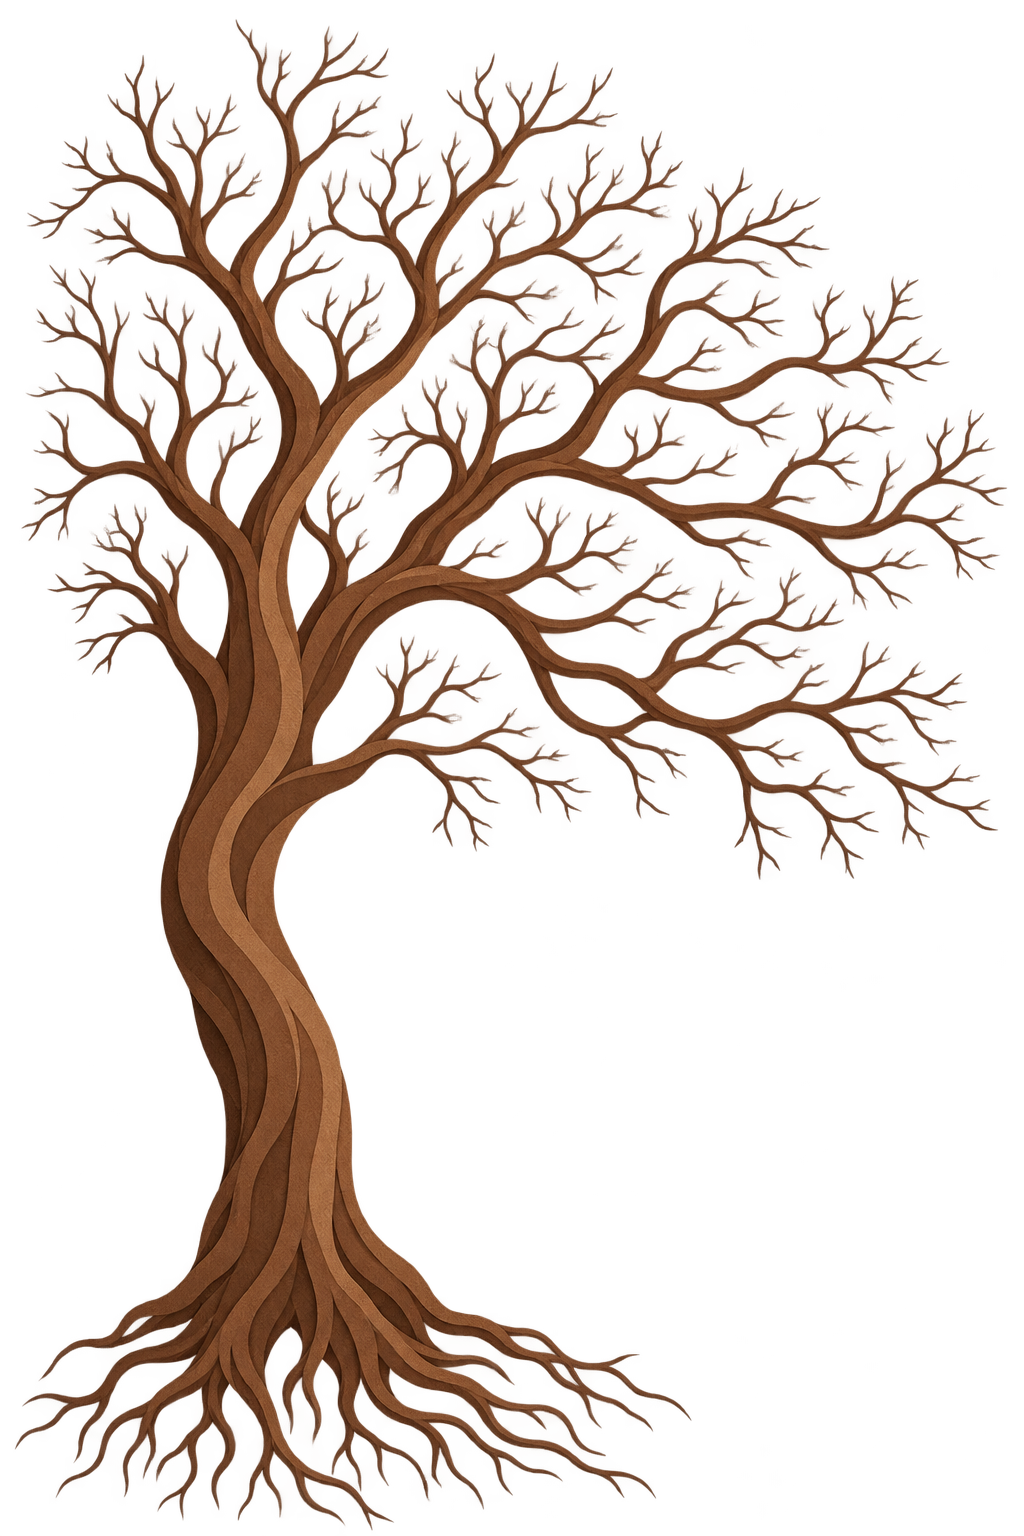
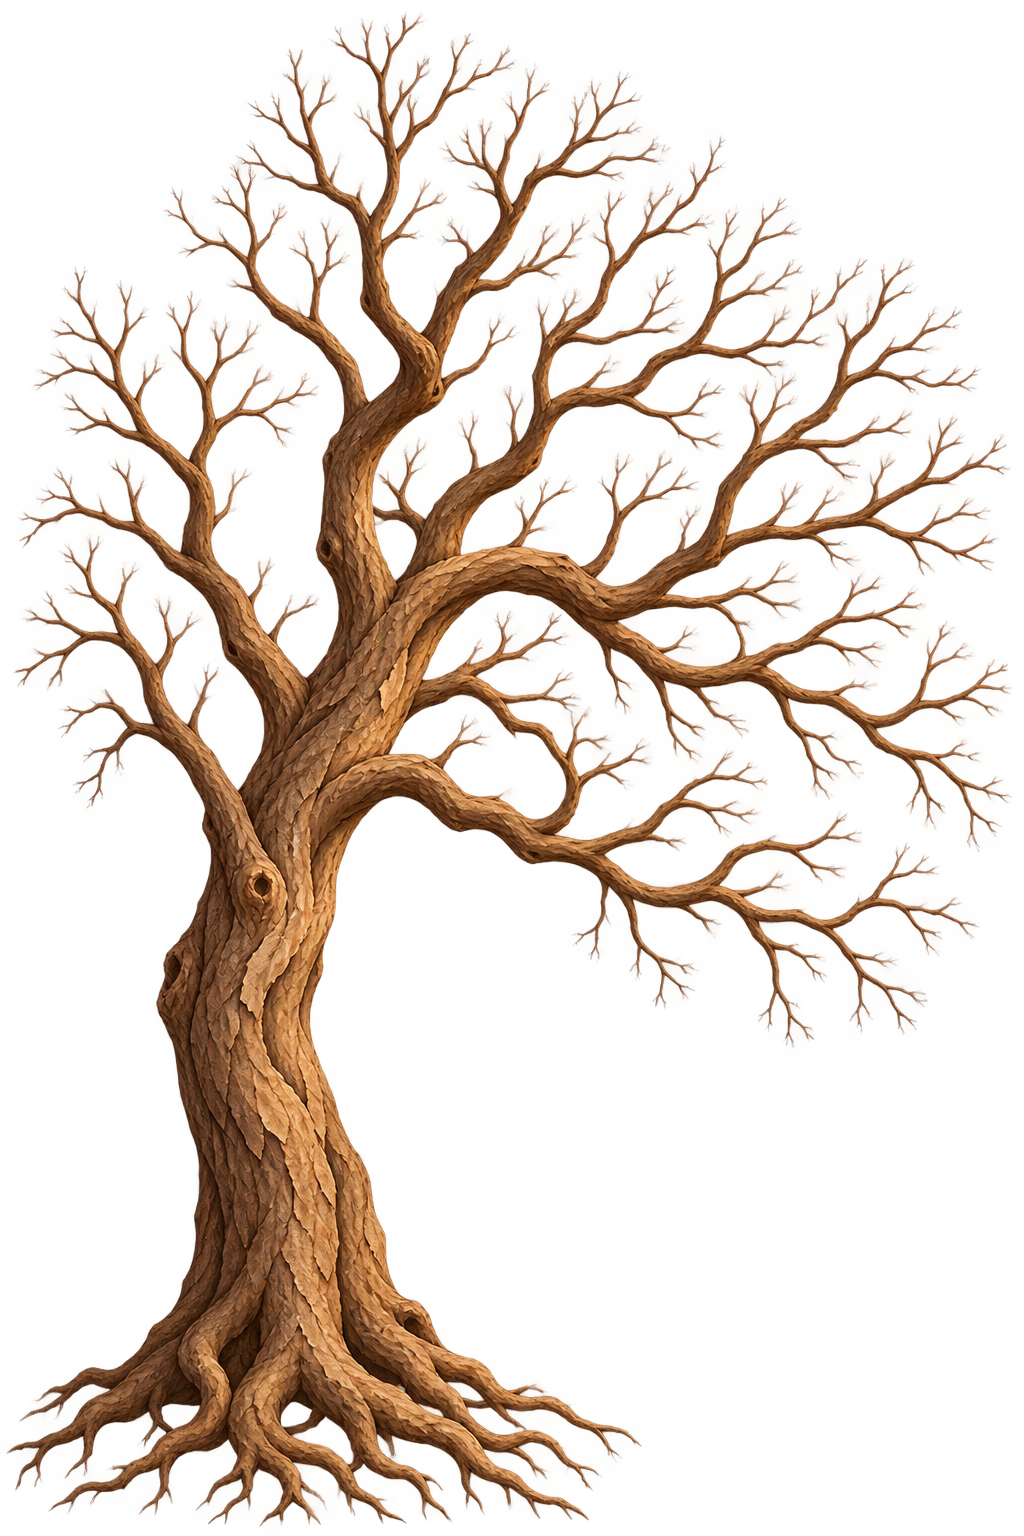
Restore textured artwork and prototype a single Season Tree
Use the original richly textured tree illustration as one focal tree, author 48 twig anchors without changing saved slot identities, and document the tree's seasonal role. Refresh gameplay and ending screenshots.

diff --git a/docs/GAME_DESIGN.md b/docs/GAME_DESIGN.md
@@ -6,7 +6,7 @@ An initial [technical art prototype](PROTOTYPE.md) implements part of this desig
 
 ## Core concept and requirements
 
-You are a stubborn caretaker trying to prevent winter from arriving. Armed with a leaf blower, you move left and right beneath shedding trees and blow their leaves back into the canopy. Leaves swirl through the air, collect around your feet when missed, and slow your movement as their piles grow.
+You are a stubborn caretaker trying to prevent winter from arriving. Armed with a leaf blower, you move left and right beneath a single magical tree and blow its leaves back into the canopy. Leaves swirl through the air, collect around your feet when missed, and slow your movement as their piles grow.
 
 The game must provide:
 
@@ -22,6 +22,10 @@ The game must provide:
 
 The paper-cut direction and between-week upgrades are selected features. Exact rendering implementation, upgrade balance, scoring, and temporary pickups remain design choices. The defaults below make a bounded, testable first version.
 
+## The season tree — working mythos
+
+One ancient tree, provisionally called the **Season Tree**, governs the seasons in the valley. Its leaves hold the last warmth of autumn; when the crown becomes bare, winter takes over. The caretaker uses a very ordinary electric blower to keep an extraordinary tree alive, making the modern rural setting and magical premise work together. The North Wind tries to strip its leaves in the finale. Victory restores sunlight and flowers around that same tree. The exact name and story presentation remain provisional; keep the premise visual rather than adding lengthy exposition.
+
 ## Player experience
 
 An approachable opening gives way to increasingly frantic, readable leaf juggling. The fun comes from positioning beneath a falling cluster, catching it in a gust, and watching it click back into an empty branch position. The player should understand a miss immediately, recover from small mistakes, and see why a run ended.
@@ -32,9 +36,9 @@ Keep the camera fixed. No scrolling world, platforming, jumping, combat, or off-
 
 Selected creative direction: **Paper & Lanterns**, following the six-style comparison and four-state seasonal mockup review. Build illustrated 2D gameplay from layered cut-paper scenery, fibrous textures, folded edges, dimensional shadows, and warm backlighting. Use rounded silhouettes, restrained animation, and slightly exaggerated proportions. Retro character comes from shape language and timing; strict pixel art is not a requirement. The concept images establish mood, not production-ready sprites or a final HUD.
 
-Place two or three trees across the upper playfield, open air in the middle, and the character and accumulating leaves along the bottom. Keep trunks, branches, and foreground props from hiding catchable leaves. Reserve the bottom safe area for controls and the top for a compact HUD.
+Place one large, naturally asymmetric textured tree as the central focal point, open air around its crown, and the character and accumulating leaves along the bottom. The character runs in front of the trunk and roots; they are scenery, not movement obstacles. Keep trunks, branches, and foreground props from hiding catchable leaves. Reserve the bottom safe area for controls and the top for a compact HUD.
 
-Use a relatable modern rural setting: ordinary houses, wooden fences and optional solar panels, with distant forest and small mountains. No castle, medieval spires or stone bridge. Render the gameplay trees as complete illustrated bare-tree sprites separately from the scenery, and place all their foliage as independent paper leaves. Attached, falling and piled leaves share the same textured cut-paper asset. The trees' visible emptiness reflects actual missing leaves, especially late in a struggling run; never paint a permanently full canopy into the backdrop.
+Use a relatable modern rural setting: ordinary houses, wooden fences and optional solar panels, with distant forest and small mountains. No castle, medieval spires or stone bridge. Render the magical gameplay tree as one complete textured bare-tree sprite separately from the scenery, and place all their foliage as independent paper leaves. Attached, falling and piled leaves share the same textured cut-paper asset. The tree's visible emptiness reflects actual missing leaves, especially late in a struggling run; never paint a permanently full canopy into the backdrop.
 
 Create depth with overlapping scenery planes, contact shadows, soft light shafts, a gentle canopy glow, and sparse fog. Fog stays behind important action or uses very low opacity. Colour and contrast must distinguish leaves from the backdrop, including during orange/red late weeks. Leaf shape, motion, and markings supplement colour cues.
 

diff --git a/docs/PROTOTYPE.md b/docs/PROTOTYPE.md
@@ -3,7 +3,7 @@
 ## What is implemented
 
 - Godot **4.6.3 stable**, GDScript, Compatibility rendering, no third-party engine plugins.
-- Modern rural paper-textured scenery with ordinary houses and a solar roof, plus independently drawn bare trees, textured paper-leaf sprites, a transparent electric-blower character, directional wind streaks, local leaf piles, gentle light/fog overlays, and soft shadows.
+- Modern rural paper-textured scenery with ordinary houses and a solar roof, plus a single central magical tree using the original textured illustration, textured paper-leaf sprites, a transparent electric-blower character, directional wind streaks, local leaf piles, gentle light/fog overlays, and soft shadows.
 - Fixed-camera, fixed **360 × 640** logical playfield, uniformly fitted inside browser safe-area padding. Screen shape changes decorative margins, not gameplay geometry.
 - Keyboard and independent multi-touch movement/blowing, input release on touch cancellation, pause on application focus loss, and explicit pause/resume.
 - Upward leaf force with mild flutter, once-only rescue/miss outcomes, pile slowdown, battery depletion/release-to-recharge, score/combo, 12 main weeks and a final North Wind encounter, and cumulative winter pressure.
@@ -77,7 +77,7 @@ Headless Chromium uses software WebGL in this environment. It can establish func
 
 ## Deliberate prototype limits
 
-- Distant scenery remains a composited background plate with baked lighting. Gameplay trees, their foliage and atmospheric overlays are separate runtime layers; the whole illustrated tree sprite is paired with twig-coordinate/orientation metadata in `scripts/canopy.gd`. This is not a final rigged 2.5D or fully dynamic lighting pipeline.
+- Distant scenery remains a composited background plate with baked lighting. The Season Tree, its foliage and atmospheric overlays are separate runtime layers; the whole illustrated tree sprite is paired with twig-coordinate/orientation metadata in `scripts/canopy.gd`. This is not a final rigged 2.5D or fully dynamic lighting pipeline.
 - The character uses 12 wardrobe atlas frames plus separate warm victory and bundled sad-defeat poses, with smooth mipmapped filtering. Full walking, looking-up, celebration and blower-idle animation rigs remain production work.
 - Branch capture has a forgiving 15-logical-pixel radius and sweeps each motion segment to avoid missing slots at higher speeds. The radius, branch layout, foliage density and marker visibility need phone-scale playtesting. Arriving at an arbitrary sky height never counts as a rescue.
 - Weather/endings demonstrate the visual states rather than finished cinematic direction. Warning flakes do not collide with leaves or change movement.

diff --git a/docs/DEVELOPMENT_PLAN.md b/docs/DEVELOPMENT_PLAN.md
@@ -2,7 +2,7 @@
 
 Status: an initial [technical art prototype](PROTOTYPE.md) now implements a subset of these stages in Godot 4.6.3, with a browser export, automated simulation/input checks, original prototype assets, and a small upgrade workshop. This is not a completed cross-platform gate or production vertical slice. Physical-device performance, native exports, full animation/layered-art production, difficulties and persistence remain outstanding. Complete each exit gate before expanding scope; the list below remains the broader delivery plan.
 
-The revised prototype uses modern rural homes instead of the original medieval backdrop. Bare gameplay trees and all foliage now render independently: occupied positions shed real leaves, misses leave persistent gaps, and returning leaves reattach to vacant positions. Whole-tree illustrated sprites and artist-authored twig metadata, textured leaf sprites and directional wind streaks replace the static painted canopy, blanket sky capture and spiral blower ribbons. The current finite canopy has 48 leaves; the earlier 150-leaf budget below remains a future scale target, not a claim about the current stress scenario.
+The revised prototype uses modern rural homes instead of the original medieval backdrop. Bare gameplay trees and all foliage now render independently: occupied positions shed real leaves, misses leave persistent gaps, and returning leaves reattach to vacant positions. A single original textured tree illustration and artist-authored twig metadata, textured leaf sprites and directional wind streaks replace the static painted canopy, blanket sky capture and spiral blower ribbons. The current finite canopy has 48 leaves; the earlier 150-leaf budget below remains a future scale target, not a claim about the current stress scenario.
 
 The campaign prototype now includes 12 weekly outfit frames, two ending poses, falling temperature, all-screen pausing, and three named local boundary-save slots. Final boss mechanics are a first North Wind gust/snow study. Full animation rigs, human difficulty tuning and native device validation remain open.
 

diff --git a/docs/CAMPAIGN.md b/docs/CAMPAIGN.md
@@ -36,9 +36,11 @@ Switching apps/tabs, hiding the document or losing window focus automatically pa
 
 ## Art correction
 
-Each tree is one complete illustrated bare-tree sprite, not a silhouette reconstructed from little branch polygons. The right tree mirrors the same asset. Twig attachment metadata is authored against actual opaque points in that image; leaf stems meet the wood and blades face outward, rather than receiving arbitrary random rotations.
+The composition uses **one central magical tree**, preserving the original richly textured full-tree illustration requested by the user. It is not the later simplified line-style tree, a mirrored pair, or a silhouette reconstructed from little branch polygons. Twig attachment metadata is authored against actual opaque points in that image; leaf stems meet the wood and blades face outward, rather than receiving arbitrary random rotations.
 
-The same paper leaf texture appears attached, in flight and in piles. Smooth linear filtering with mipmaps reduces aliasing as large cutouts scale down. There is no integer pixel snapping or deliberate pixel-art filter. Phone-size screenshots and moving builds, not isolated source images, determine whether the result is acceptable.
+Its leaves hold autumn in the valley: the Season Tree is a provisional name for this visual mythos. The caretaker moves in front of the roots without collision, and the North Wind threatens the same focal tree.
+
+All 48 slot identities are retained so existing saved weeks, builds and missing-leaf counts survive the composition change; positions map onto the new tree. The same paper leaf texture appears attached, in flight and in piles. Smooth linear filtering with mipmaps reduces aliasing as large cutouts scale down. There is no integer pixel snapping or deliberate pixel-art filter. Phone-size screenshots and moving builds, not isolated source images, determine whether the result is acceptable.
 
 ## Upgrade pacing
 

diff --git a/assets/ASSET_MANIFEST.md b/assets/ASSET_MANIFEST.md
@@ -5,7 +5,7 @@
 | `art/autumn_stage.png` | Generated with OpenAI image generation for this project; revised from the earlier Paper & Lanterns backdrop at the user's request | Modern rural houses, solar roof, distant forest/hills and open sky. No castle, bridge or baked-in gameplay trees/foliage. Background lighting and paper grain remain baked into the plate. |
 | `art/paper_leaf.png` | Generated with OpenAI image generation for this project | Transparent ivory cut-paper maple leaf, tinted per season. One shared material for attached, airborne and grounded foliage. |
 | `art/caretaker.png` | Generated with OpenAI image generation for this project | Retained original character reference; superseded at runtime by the wardrobe and ending atlases. |
-| `art/bare_tree.png` | Generated with OpenAI image generation for this project | One complete smooth illustrated paper tree, mirrored for the right side. No procedural branch assembly. |
+| `art/bare_tree.png` | Generated with OpenAI image generation for this project | Restored the **first richly textured** complete tree illustration (`exec-1db24154-7d58-4716-b032-2b47b9f91509.png`), used once as the central magical tree. Exact original image bytes, no smoothing/redrawing or mirrored second tree; runtime filtering remains smooth. |
 | `art/wardrobe.png` | Generated with OpenAI image generation for this project, using the original character as reference | 4 × 3 transparent atlas: twelve progressively warmer weekly outfits. Runtime crops each equal cell to its visible silhouette. |
 | `art/endings.png` | Generated with OpenAI image generation for this project, referencing the wardrobe sheet | 2 × 1 transparent atlas: happy T-shirt/shorts victory and sad heavily bundled defeat. |
 | `art/snowflake.svg` | Original vector artwork authored in this repository | Sixfold cut-paper snowflake with transparent punched-out details; no external source asset. |

diff --git a/docs/DECISIONS.md b/docs/DECISIONS.md
@@ -14,7 +14,8 @@ This log separates the requested game from proposed implementation choices. “R
 | Difficulty | Three choices, each with its own score table | User requirement; names and balance recommended |
 | Rendering | Paper & Lanterns: layered cut-paper 2D, textured materials, soft shadows and backlighting | User-selected creative direction; runtime/mobile-performance spike pending |
 | Setting | Modern rural homes and optional solar roof, forest and small hills; no castle or stone bridge | User direction adopted in the revised backdrop |
-| Canopy | Whole illustrated bare-tree sprites plus separate paper leaves; artist-authored twig/stem anchors; gaps persist across weeks | Implemented; no overnight foliage refill |
+| Hero tree | One central Season Tree governing the valley’s seasons; use the original richly textured tree illustration | Working mythos/layout direction; prototype implemented for review |
+| Canopy | One whole textured tree plus separate paper leaves; 48 artist-authored twig/stem anchors; gaps persist across weeks | Implemented; stable slot identities preserve existing checkpoints |
 | Reattachment | Lifted leaves fill nearby empty branch slots; occupied positions and arbitrary sky heights do not score | Implemented with swept capture and exactly-once occupancy |
 | Blower visual | Short directional wind streaks and restrained leaf flutter | User-requested replacement for the earlier spiral effect |
 | Warning weather | Small paper snowflakes begin before loss, increasing with winter pressure | User requirement; thresholds/readability to test |

diff --git a/README.md b/README.md
@@ -1,6 +1,6 @@
 # sNOw
 
-A portrait, single-screen arcade game about holding back winter with an electric leaf blower. Catch falling paper leaves in the wind and blow them into empty branch positions before the ground becomes impassable. Set among familiar rural houses, forest and small hills, the trees grow visibly barer as leaves are missed.
+A portrait, single-screen arcade game about holding back winter with an electric leaf blower. Catch falling paper leaves in the wind and blow them into empty branch positions before the ground becomes impassable. One magical tree governs the seasons of a modern rural valley; keeping its leaves attached holds winter at bay. Its crown grows visibly barer as leaves are missed.
 
 The title is **sNOw**, with **NO** treated as a playful, emphatic visual element in the eventual logo.
 
